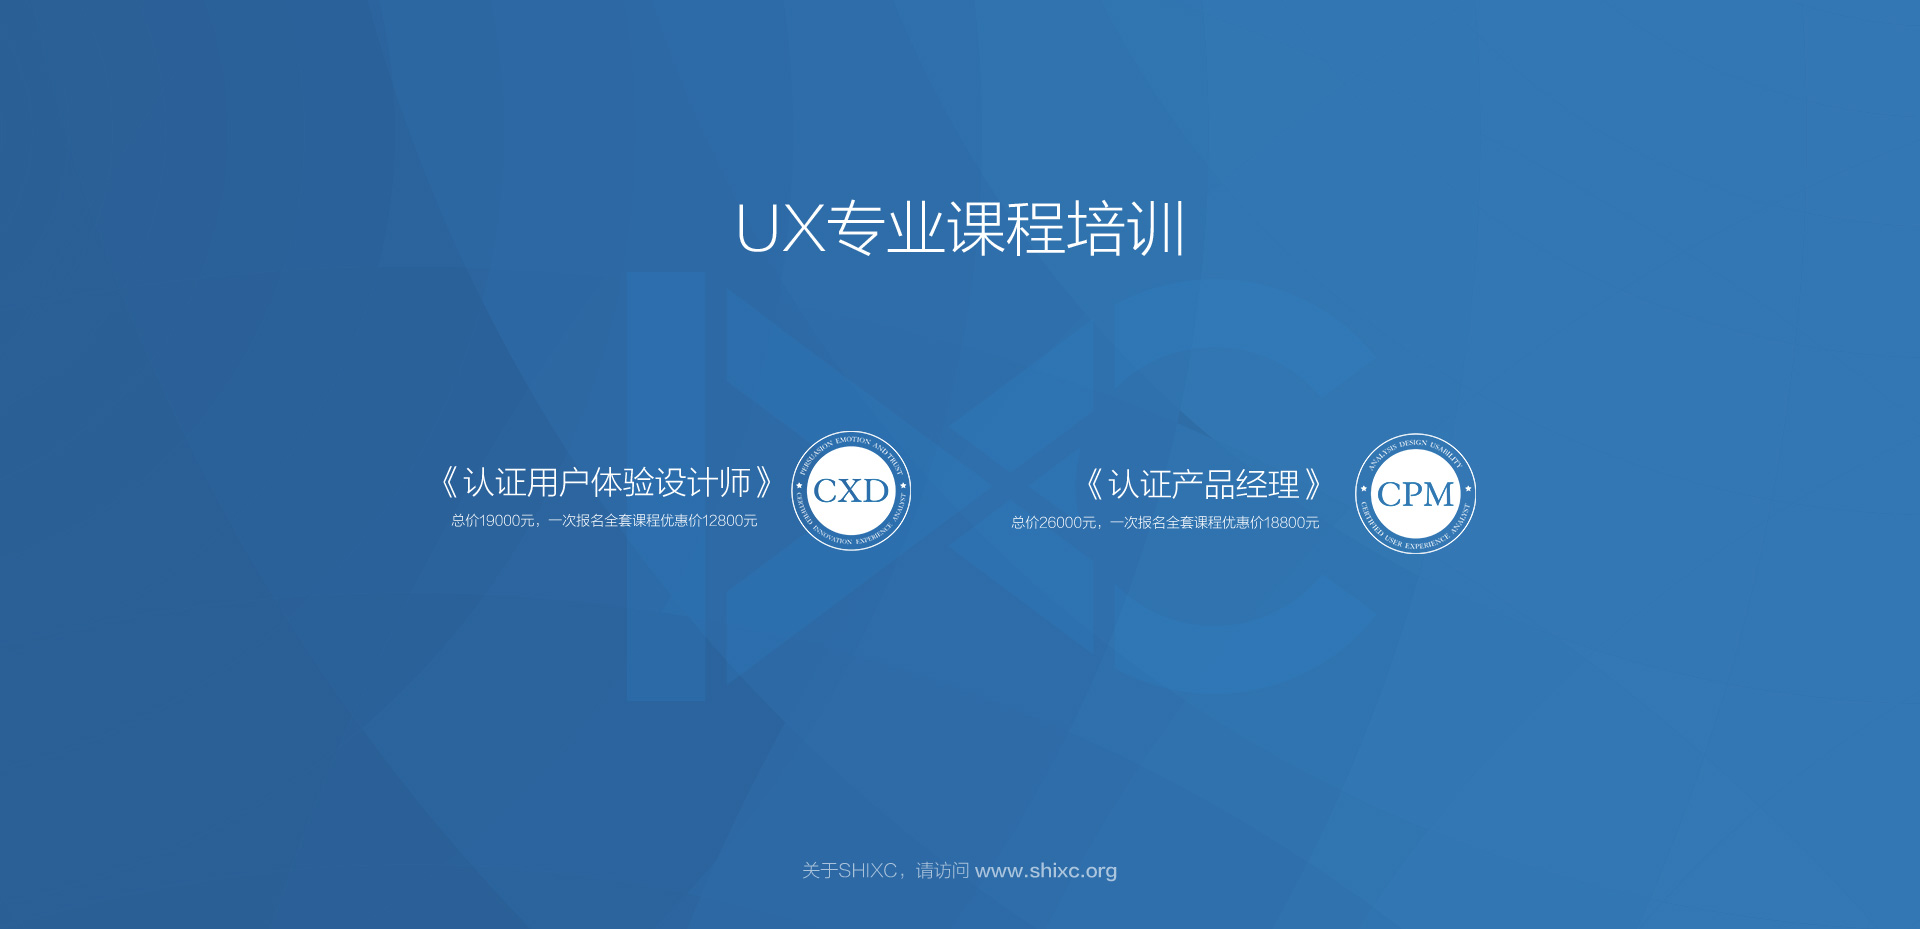
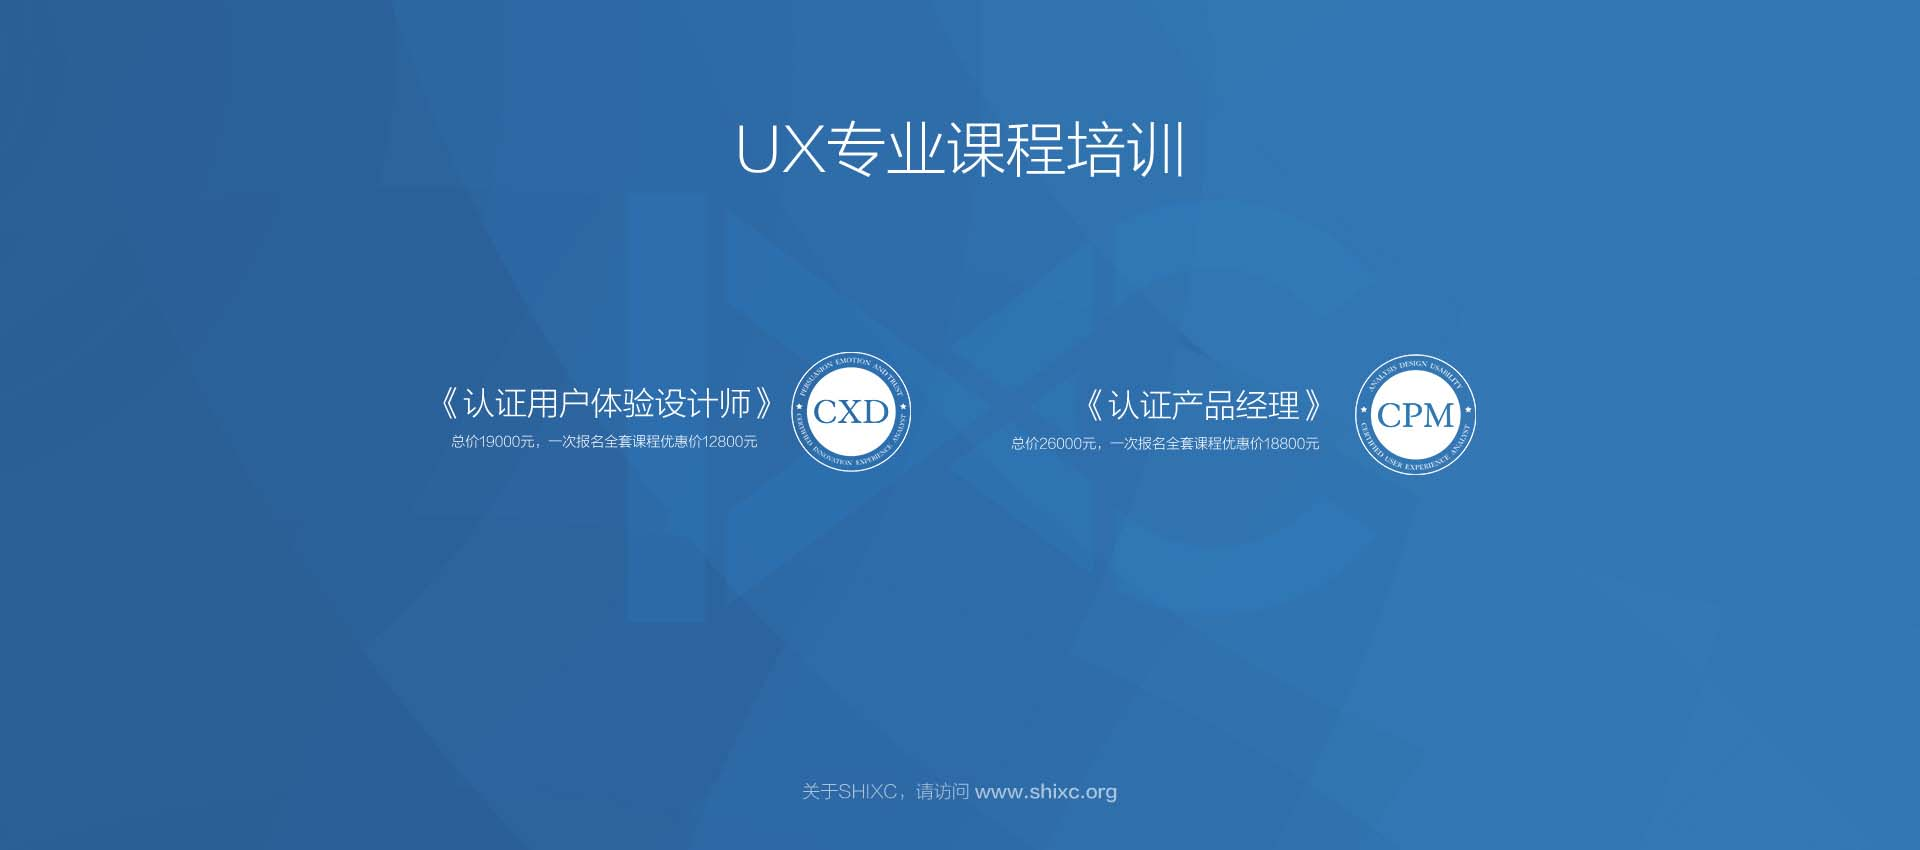
9.7.2

diff --git a/css/fu.css b/css/fu.css
@@ -214,7 +214,6 @@ h1, h2, h3, h4, h5, h6, .h1, .h2, .h3, .h4, .h5, .h6 {
     bottom: 0;
     background-color: #efefef;
     width: 100%;
-    padding: 15px 0;
     z-index: 100;
 }
 
@@ -768,6 +767,10 @@ ul.portfolio-items li:hover .image-extra {
     transform:rotateY(0)
 }
 
+.tab-btn .item {
+    padding: 15px 0;
+}
+
 .disp-table {
     display: table;
     height: 100%;
@@ -798,13 +801,12 @@ ul.portfolio-items li:hover .image-extra {
     margin-top: 30px;
 }
 
-.index-banner{ width:100%; height:100%; overflow:hidden; margin:0 auto; margin-bottom: 100px;}
+.index-banner{ width:100%; height:100%; overflow:hidden; margin:0 auto;}
 .index-banner .tab-con{ width:100%; height: 100%; overflow:hidden; margin:0 auto;}
 .index-banner .tab-con .item {
     width:100%;
     height: 100%;
     position:absolute;
-    margin-bottom: 100px;
     opacity:0;
     top:0px;
     background-position:center center;
@@ -879,6 +881,10 @@ ul.portfolio-items >li.info-item {
 
 .content-holder {
     margin-top: 71px;
+    background-size: cover;
+    background-repeat: no-repeat;
+    background-position: center center;
+    overflow: hidden;
 }
 
 /* Animal X close button */
@@ -1177,7 +1183,7 @@ ul.portfolio-items >li.info-item {
         background-color: #fff;
     }
 
-    .firstSection .intro {
+    .firstSection .intro .item {
         padding: 0;
     }
 
@@ -1451,9 +1457,6 @@ ul.portfolio-items >li.info-item {
         color: #00a2c2;
     }
 
-    .index-banner .tab-con .item {
-        height: 550px;
-    }
 
     .zx img {
         max-height: 100px;

diff --git a/index.html b/index.html
@@ -341,16 +341,14 @@
             </div>
         </section>
         <section class="background hidden-xs" style="">
-            <div class="content-holder disp-table ct-content" style="background: url(img/ct2.jpg)">
+            <div class="content-holder disp-table ct-content">
             </div>
         </section>
         <section class="background hidden-xs" style="">
-            <div class="content-holder disp-table">
-                <div class="disp-table-cell valign-bottom text-center">
-                    <a href="#" class="button blue">
+            <div class="content-holder disp-table class-content" style="background-image: url(img/ux_bg2.jpg)">
+                <a href="#" class="button blue">
                     查看详情
                 </a>
-                </div>
             </div>
         </section>
         <section class="background hidden-xs" style="">

diff --git a/js/script.js b/js/script.js
@@ -65,9 +65,10 @@ jQuery(document).ready(function($) {
     $(window).load(function() {
         /* Act on the event */
         var h1 = $(window).height();
+        var w1 = $(window).width();
         var h2 =  $('.intro').height();
-        console.log(h1,h2);
         $('.tab-con .item').height(h1 - h2);
+
     });
     $(window).resize(function(event) {
         /* Act on the event */

diff --git a/css/style.css b/css/style.css
@@ -50,7 +50,7 @@ body {
 }
 
 .background:nth-child(5) {
-  background-image: url(../img/ux_bg.jpg);
+  background-color: #fff;
 }
 
 .background:nth-child(6) {
